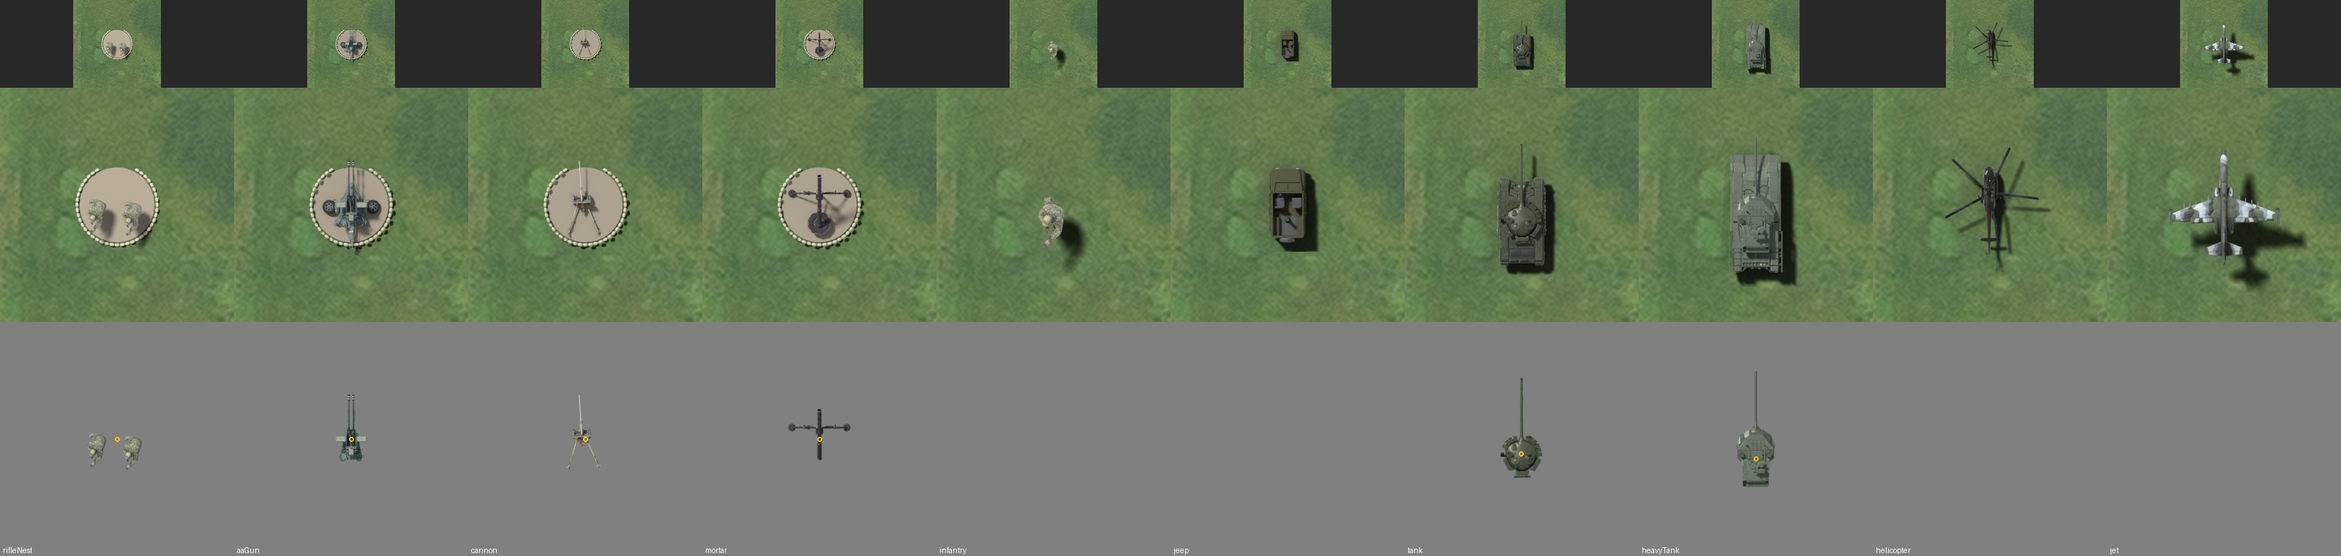
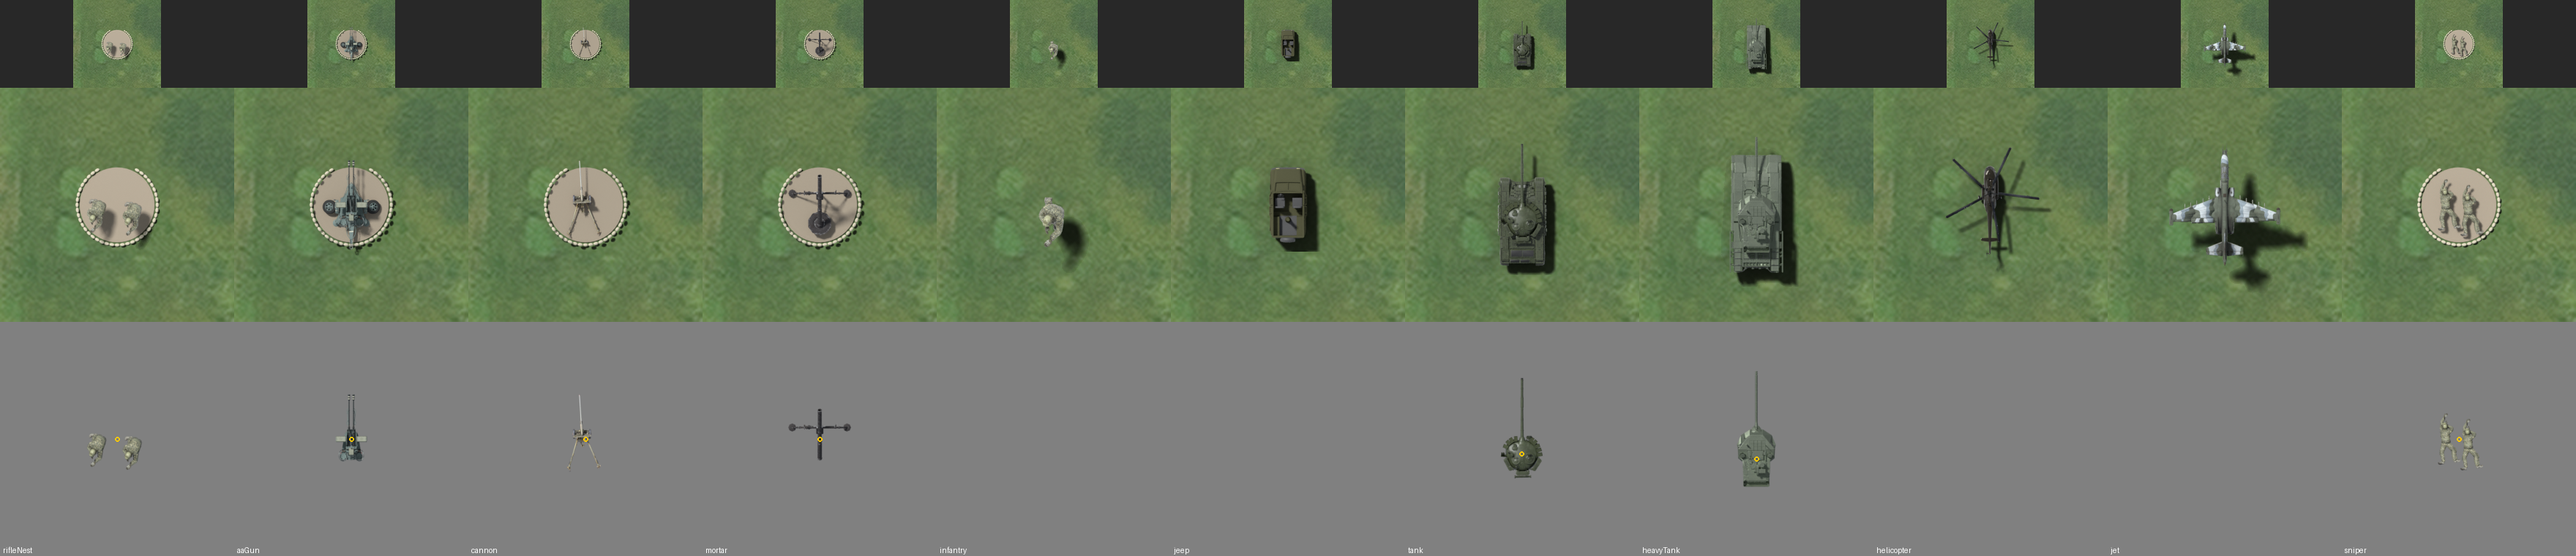
feat: Sniper team renders for Russia and China (#512)
Closes #460

Stacked on #459's PR (base `feat/459-sniper-us-render`).

## What changed

```
scripts/render-sprite.json   + russia-sniper, china-sniper  (copies of us-sniper; tint from each Faction's Rifle Nest)
assets/render-russia-sniper/ + whole / hull / turret PNG, pivot JSON, turntable (webp + json), License.txt
assets/render-china-sniper/  + same
assets/manifest.json         russia → shared Tactical Soldier entry; china → new render-china-sniper entry
CREDITS.md                   regenerated
docs/assets.md, ADR-0009     Sniper rows for Russia and China (and the US folder in the assets table)
docs/art/faction-russia.png  regenerated with the Sniper column
tests                        Sniper tests cover ['us', 'russia', 'china']; turntable count 21
```

- **Russia**: ORSIS T-5000 / ASVK team in EMR (stand-in rifle and kit, olive tint). **China**: QBU-10 team in Type 07 (stand-in, green tint).
- Same model, pose (`prone_firing` frame 5), two figures, 0.55-tile length, 0.4-tile dug-in pad and 1.25-tile canvas as the US render (ADR-0009). The team sits on the turret layer and turns about the pad centre, at (80, 80) on 160 px.
- License checked again on the model's Sketchfab page (API, 2026-11-11): CC Attribution 4.0.

## Screenshots

**Russia faction sheet**
Before:
![faction-russia before](https://raw.githubusercontent.com/itay28/Military-TD/13f3f82a14600d36fb7176e8bbba23c33cc9aa31/docs/art/faction-russia.png)
After (new Sniper column on the right):
[…]

diff --git a/src/data/renders.test.ts b/src/data/renders.test.ts
@@ -62,8 +62,8 @@ describe('RENDERS', () => {
 });
 
 describe('the committed Sniper renders (art-ahead: not in RENDERS until #364 puts the Sniper in play)', () => {
-  // The Factions whose Sniper is rendered so far: US (#459). Later parts of #358 add theirs.
-  for (const faction of ['us']) {
+  // The Factions whose Sniper is rendered so far: US (#459), Russia and China (#460). Later parts of #358 add theirs.
+  for (const faction of ['us', 'russia', 'china']) {
     const id = `${faction}-sniper`;
     const dir = `assets/render-${id}`;
 

diff --git a/CREDITS.md b/CREDITS.md
@@ -108,7 +108,7 @@ Third-party assets in this game. Generated from `assets/manifest.json` by `npm r
 - License: CC-BY-4.0
 - Attribution: "Tactical Soldier (game ready) low poly" by MissingTray1151 (sketchfab.com), CC-BY 4.0, rendered top-down, posed from its crouch_firing (Rifle Nest: two copies in a sandbagged pit of our own), prone_firing (Sniper: a shooter and an observer in a dug-in pit of our own) and walking_firing (Infantry) animations; US kit tinted toward OCP, Russia kit tinted olive (toward EMR), plus a turntable of the whole model (24 views from 30 degrees up) for the Field manual
 - Downloaded: 2026-11-02
-- Files: `assets/render-us-rifle-nest/**`, `assets/render-us-infantry/**`, `assets/render-us-sniper/**`, `assets/render-russia-rifle-nest/**`, `assets/render-russia-infantry/**`
+- Files: `assets/render-us-rifle-nest/**`, `assets/render-us-infantry/**`, `assets/render-us-sniper/**`, `assets/render-russia-rifle-nest/**`, `assets/render-russia-infantry/**`, `assets/render-russia-sniper/**`
 
 ## Phalanx CIWS (top-down render and turntable)
 
@@ -244,6 +244,15 @@ Third-party assets in this game. Generated from `assets/manifest.json` by `npm r
 - Attribution: "Tactical Soldier (game ready) low poly" by MissingTray1151 (sketchfab.com), CC-BY 4.0, rendered top-down, posed crouching and aiming (its crouch_firing animation), kit tinted green (toward Type 07), two copies set in a sandbagged pit of our own, plus a turntable of the whole model (24 views from 30 degrees up) for the Field manual
 - Downloaded: 2026-11-02
 - Files: `assets/render-china-rifle-nest/**`
+
+## Tactical Soldier (game ready) low poly (top-down render and turntable)
+
+- Author: MissingTray1151
+- Source: <https://sketchfab.com/3d-models/2bfce585144d4403a3ddf76a0e65767a>
+- License: CC-BY-4.0
+- Attribution: "Tactical Soldier (game ready) low poly" by MissingTray1151 (sketchfab.com), CC-BY 4.0, rendered top-down, posed prone and aiming (its prone_firing animation), kit tinted green (toward Type 07), a shooter and an observer set in a dug-in pit of our own, plus a turntable of the whole model (24 views from 30 degrees up) for the Field manual
+- Downloaded: 2026-11-11
+- Files: `assets/render-china-sniper/**`
 
 ## Anti-Tank Guided Missile (top-down render and turntable)
 

diff --git a/docs/assets.md b/docs/assets.md
@@ -216,6 +216,7 @@ Don't use plain `python3` (3.13 in the cloud image, where pip offers only `bpy` 
 | `render-us-cannon/` | "Anti-Tank Guided Missile" by Alhimix, CC-BY-4.0 | `scripts/render-sprite.py` |
 | `render-us-mortar/` | "Mortar - M224" by jcherry3d, CC-BY-4.0 | `scripts/render-sprite.py` |
 | `render-us-infantry/` | "Tactical Soldier (game ready) low poly" by MissingTray1151, CC-BY-4.0 | `scripts/render-sprite.py` |
+| `render-us-sniper/` | "Tactical Soldier (game ready) low poly" by MissingTray1151, CC-BY-4.0 | `scripts/render-sprite.py` |
 | `render-us-jeep/` | "Low Poly Humvee FREE" by madtrollstudio, CC-BY-4.0 | `scripts/render-sprite.py` |
 | `render-us-tank/` | "M1A2 Abrams Crows" by MirzaArrafiERV_45, CC-BY-4.0 | `scripts/render-sprite.py` |
 | `render-us-helicopter/` | "Sikorsky UH-60 Black Hawk" by helijah, CC-BY-4.0 | `scripts/render-sprite.py` |
@@ -225,9 +226,11 @@ Don't use plain `python3` (3.13 in the cloud image, where pip offers only `bpy` 
 | `render-russia-cannon/` | "ZiS-2 57mm anti-tank gun" by sergey.s.filin, CC-BY-4.0 | `scripts/render-sprite.py` |
 | `render-russia-mortar/` | "Pindad Mortars" by sakigakefuruzawa, CC-BY-4.0 | `scripts/render-sprite.py` |
 | `render-russia-infantry/` | "Tactical Soldier (game ready) low poly" by MissingTray1151, CC-BY-4.0 | `scripts/render-sprite.py` |
+| `render-russia-sniper/` | "Tactical Soldier (game ready) low poly" by MissingTray1151, CC-BY-4.0 | `scripts/render-sprite.py` |
 | `render-russia-jeep/` | "UAZ-469 Low Poly" by lebedeventerprise, CC-BY-4.0 | `scripts/render-sprite.py` |
 | `render-russia-helicopter/` | "Mi-8" by tiunov.se, CC-BY-4.0 | `scripts/render-sprite.py` |
 | `render-china-rifle-nest/` | "Tactical Soldier (game ready) low poly" by MissingTray1151, CC-BY-4.0 | `scripts/render-sprite.py` |
+| `render-china-sniper/` | "Tactical Soldier (game ready) low poly" by MissingTray1151, CC-BY-4.0 | `scripts/render-sprite.py` |
 | `render-china-cannon/` | "Anti-Tank Guided Missile" by Alhimix, CC-BY-4.0 | `scripts/render-sprite.py` |
 | `render-china-mortar/` | "Pindad Mortars" by sakigakefuruzawa, CC-BY-4.0 | `scripts/render-sprite.py` |
 | `render-china-infantry/` | "Tactical Soldier (game ready) low poly" by MissingTray1151, CC-BY-4.0 | `scripts/render-sprite.py` |

diff --git a/docs/adr/0009-satellite-milsim-art-and-factions.md b/docs/adr/0009-satellite-milsim-art-and-factions.md
@@ -39,11 +39,11 @@ The maintainer also wants each map to pit two sides against each other, picked f
 | **Heavy tank** (boss) | M1A2 SEPv3 with TUSK (urban kit) | T-14 Armata | Type 99A with add-on armor | T-72 (captured, ideally with improvised slat armor) |
 | **APC** (armored troop carrier) | M113 (or Stryker ICV, unarmed variant) | BTR-82A | ZBL-08 / ZSL-92 | BTR-60 (captured) |
 | **Fighter jet** (`jet`) | F-16 Fighting Falcon | Su-25 Grach | pending (next part) | pending (next part) |
-| **Sniper** (rendered ahead of play, #358) | Two-man team prone in a dug-in hide, M107 / M2010, OCP | to come | to come | to come |
+| **Sniper** (rendered ahead of play, #358) | Two-man team prone in a dug-in hide, M107 / M2010, OCP | Two-man team prone in a dug-in hide, ORSIS T-5000 / ASVK, EMR | Two-man team prone in a dug-in hide, QBU-10, Type 07 | to come |
 
 The Heavy tank is rendered about 1.4 tiles long, bigger than the Tank's 1.3, so the boss reads at a glance. Its renders were made ahead of its gameplay (#78), so it's listed as an upcoming kind until it joins the waves.
 
-Updated 2026-11-11 (#459): the Sniper row. Its renders come one Faction per part, before the Sniper is in play (#364); the US render is a stand-in rifle and kit on the same soldier model as the Rifle Nest.
+Updated 2026-11-11 (#459): the Sniper row. Its renders come one Faction per part, before the Sniper is in play (#364); the US render is a stand-in rifle and kit on the same soldier model as the Rifle Nest. Updated 2026-11-11 (#460): Russia and China, the same model and pose re-coloured like their Rifle Nests.
 
 Picks match the stats: the Jeep has no armor (so no armored Humvee or Tigr), the Helicopter has light armor (a transport, not an Apache or Hind), and the AA Gun is a fast-firing gun that also hits ground targets.
 
